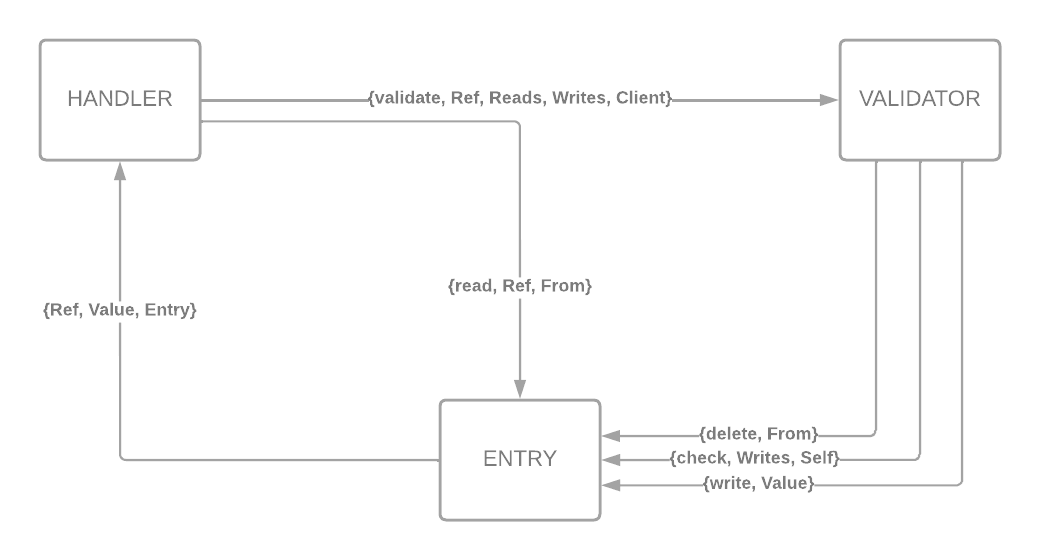
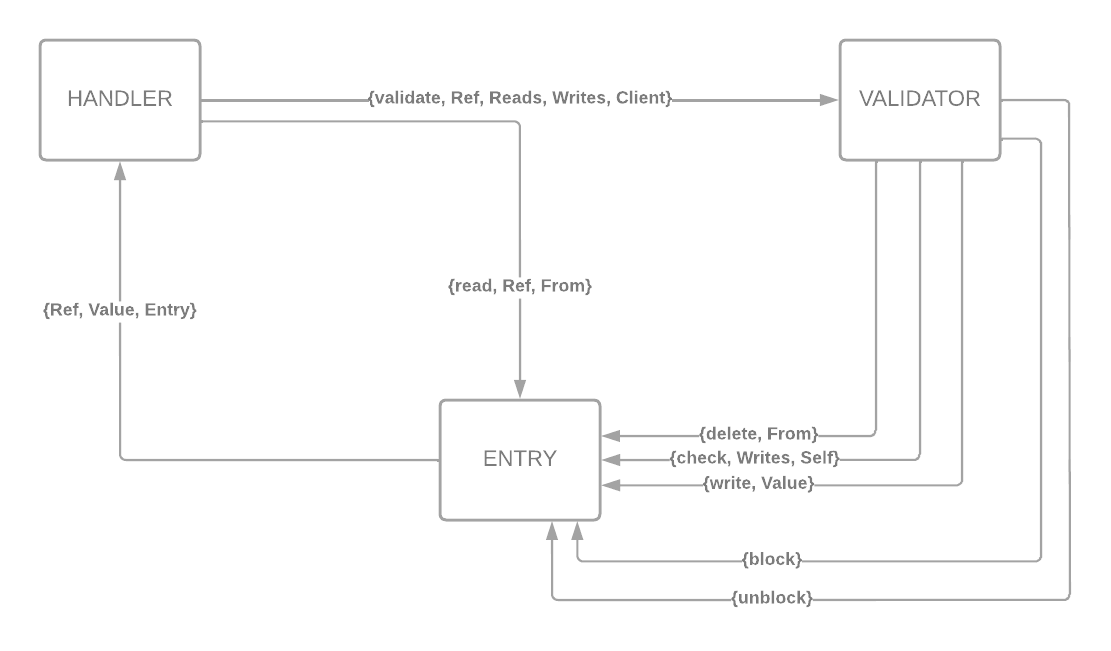
updated diagram

Changed region(s): [[0.0308, 0.0607, 0.9846, 0.9411], [0.4308, 0.4857, 0.5846, 0.5464], [0.4, 0.425, 0.5538, 0.4554]]

diff --git a/opty/Report/seminar-report-template.tex b/opty/Report/seminar-report-template.tex
@@ -586,13 +586,16 @@ With this change in \textit{read} messages, the behaviour on \textit{write} mess
 
 \textit{Check} messages have the bigger change. They will change not only the structure but also all their behaviour. Now we check if the list of Reads is empty, which means that no one had read that entry so we are able to commit our transaction. Otherwise, we abort the transaction if there are some PID in our Read list. We are checking if there is an empty list because before checking validator asks for the entry for deleting the PID of the handler of the transaction.
 
+Also, we will need \textit{block} and \textit{unblock} messages to block/unblock the entry while the checking phase.
+
 The last type of message is \textit{delete}. This message deletes ALL the appearances of the requested PID from the Read list from the entry.
 
 \subsection{Validator}
 
 The validator module has a few changes in addition to the new entry messages structure. We are introducing some functions like "send\_write\_check" and "check\_writes", are responsible for sending check messages to the corresponding entries and receiving their answers to complete or abort the transactions.
 
-Inside of \texttt{validator} function, we are waiting for a \textit{validate} message from the handler. The first we do (and the first change we find) is that validator asks for deleting ALL the appearances of the handler's PID from ALL the entries he is attempting to write. Then, it sends the checks messages with the previous functions, and depending on the response (ok or abort), it will update the Writes and accomplish successfully the transaction. Or it will abort the transaction. After these actions, the validator will need to delete also the Reads of that transaction in the corresponding entries in which the handler has read.
+Inside of \texttt{validator} function, we are waiting for a \textit{validate} message from the handler. The first we do (and the first change we find) is that validator asks for blocking and deleting ALL the appearances of the handler's PID from ALL the entries he is attempting to write. Then, it sends the checks messages with the previous functions, and depending on the response (ok or abort), it will update the Writes and accomplish successfully the transaction. Or it will abort the transaction. After these actions, the validator will need to delete also the Reads of that transaction in the corresponding entries in which the handler has read. Finnaly, it will unblock the entries that we blocked before.
+
 
 \subsection{Handler}
 
